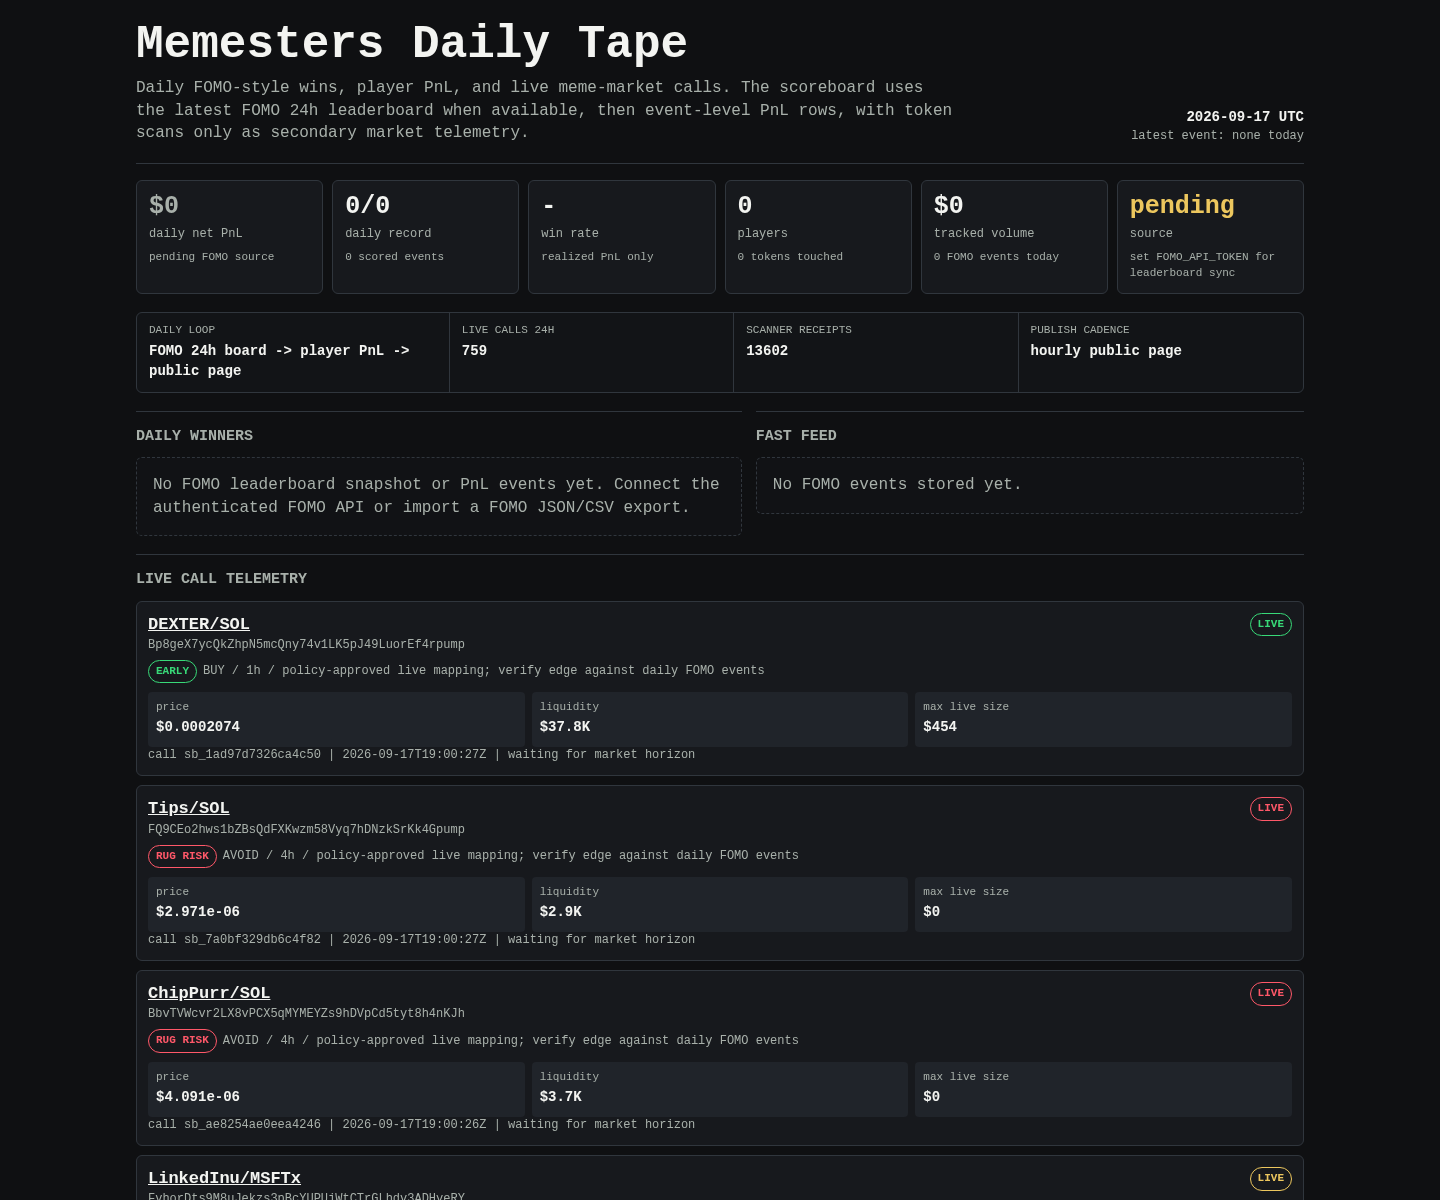
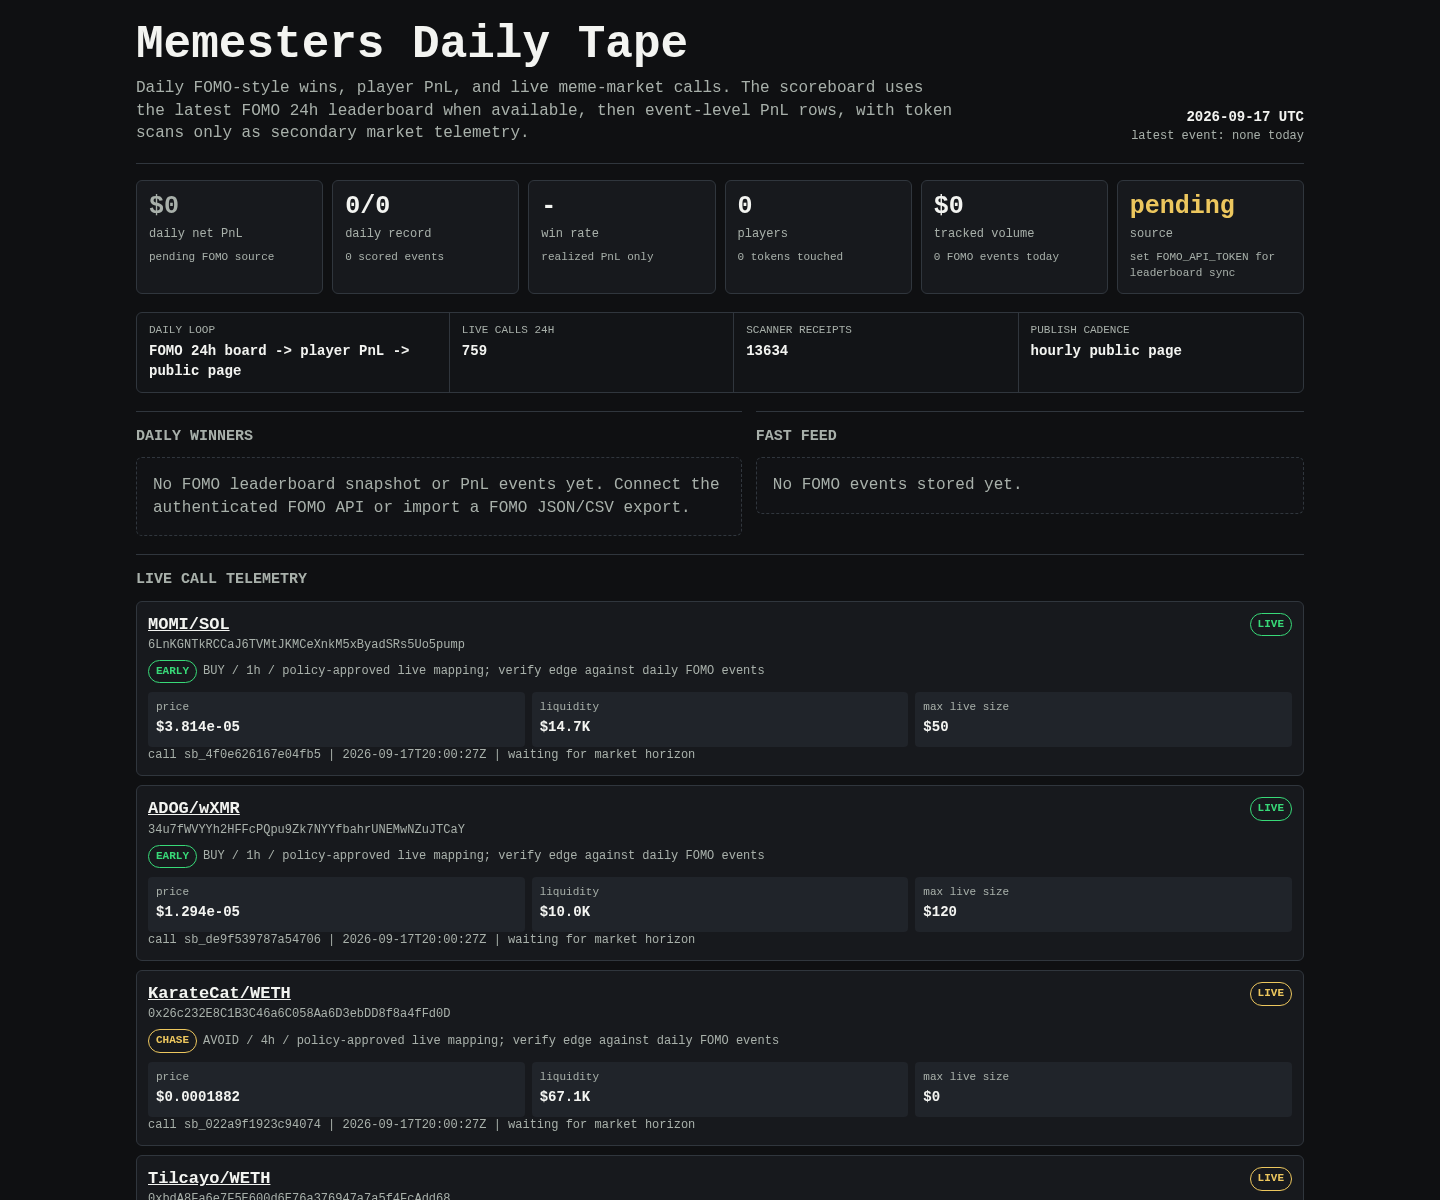
Update Memesters scoreboard

diff --git a/memesters/index.html b/memesters/index.html
@@ -150,7 +150,7 @@
     <div class="rail" aria-label="live operating loop">
       <div><span>daily loop</span><b>FOMO 24h board -> player PnL -> public page</b></div>
       <div><span>live calls 24h</span><b>759</b></div>
-      <div><span>scanner receipts</span><b>13602</b></div>
+      <div><span>scanner receipts</span><b>13634</b></div>
       <div><span>publish cadence</span><b>hourly public page</b></div>
     </div>
 
@@ -171,8 +171,8 @@
     <article class="receipt">
       <div class="receipt-head">
         <div>
-          <div class="pair"><a href="https://dexscreener.com/solana/4cq69tmxusd47zvrur3tec6zw2y4kvy1xrhoqcgdrdsk">DEXTER/SOL</a></div>
-          <div class="addr">Bp8geX7ycQkZhpN5mcQny74v1LK5pJ49LuorEf4rpump</div>
+          <div class="pair"><a href="https://dexscreener.com/solana/6st1pmqcyfyxwsqpue3ea3mwzo69kz4qac1qerblwaev">MOMI/SOL</a></div>
+          <div class="addr">6LnKGNTkRCCaJ6TVMtJKMCeXnkM5xByadSRs5Uo5pump</div>
           <div class="addr policy-line">
             <span class="badge early">EARLY</span>
             <span>BUY / 1h / policy-approved live mapping; verify edge against daily FOMO events</span>
@@ -181,61 +181,40 @@
         <span class="badge early">LIVE</span>
       </div>
       <div class="receipt-grid">
-        <div class="kv"><span>price</span><b>$0.0002074</b></div>
-        <div class="kv"><span>liquidity</span><b>$37.8K</b></div>
-        <div class="kv"><span>max live size</span><b>$454</b></div>
+        <div class="kv"><span>price</span><b>$3.814e-05</b></div>
+        <div class="kv"><span>liquidity</span><b>$14.7K</b></div>
+        <div class="kv"><span>max live size</span><b>$50</b></div>
       </div>
-      <div class="outcomes">call sb_1ad97d7326ca4c50 | 2026-09-17T19:00:27Z | waiting for market horizon</div>
+      <div class="outcomes">call sb_4f0e626167e04fb5 | 2026-09-17T20:00:27Z | waiting for market horizon</div>
     </article>
     
 
     <article class="receipt">
       <div class="receipt-head">
         <div>
-          <div class="pair"><a href="https://dexscreener.com/solana/hnqxz2f4n9bascnupu7vqe4tpzfrc6jwrx4pgddwashg">Tips/SOL</a></div>
-          <div class="addr">FQ9CEo2hws1bZBsQdFXKwzm58Vyq7hDNzkSrKk4Gpump</div>
+          <div class="pair"><a href="https://dexscreener.com/solana/dqpjpthe7bwycymtzmuczviusi5sxspb1fwfl6mjxx6t">ADOG/wXMR</a></div>
+          <div class="addr">34u7fWVYYh2HFFcPQpu9Zk7NYYfbahrUNEMwNZuJTCaY</div>
           <div class="addr policy-line">
-            <span class="badge rug-risk">RUG RISK</span>
-            <span>AVOID / 4h / policy-approved live mapping; verify edge against daily FOMO events</span>
+            <span class="badge early">EARLY</span>
+            <span>BUY / 1h / policy-approved live mapping; verify edge against daily FOMO events</span>
           </div>
         </div>
-        <span class="badge rug-risk">LIVE</span>
+        <span class="badge early">LIVE</span>
       </div>
       <div class="receipt-grid">
-        <div class="kv"><span>price</span><b>$2.971e-06</b></div>
-        <div class="kv"><span>liquidity</span><b>$2.9K</b></div>
-        <div class="kv"><span>max live size</span><b>$0</b></div>
+        <div class="kv"><span>price</span><b>$1.294e-05</b></div>
+        <div class="kv"><span>liquidity</span><b>$10.0K</b></div>
+        <div class="kv"><span>max live size</span><b>$120</b></div>
       </div>
-      <div class="outcomes">call sb_7a0bf329db6c4f82 | 2026-09-17T19:00:27Z | waiting for market horizon</div>
+      <div class="outcomes">call sb_de9f539787a54706 | 2026-09-17T20:00:27Z | waiting for market horizon</div>
     </article>
     
 
     <article class="receipt">
       <div class="receipt-head">
         <div>
-          <div class="pair"><a href="https://dexscreener.com/solana/camhwtgfejd8gqczpsx5z9jx36tur8wxilnhdkghbimu">ChipPurr/SOL</a></div>
-          <div class="addr">BbvTVWcvr2LX8vPCX5qMYMEYZs9hDVpCd5tyt8h4nKJh</div>
-          <div class="addr policy-line">
-            <span class="badge rug-risk">RUG RISK</span>
-            <span>AVOID / 4h / policy-approved live mapping; verify edge against daily FOMO events</span>
-          </div>
-        </div>
-        <span class="badge rug-risk">LIVE</span>
-      </div>
-      <div class="receipt-grid">
-        <div class="kv"><span>price</span><b>$4.091e-06</b></div>
-        <div class="kv"><span>liquidity</span><b>$3.7K</b></div>
-        <div class="kv"><span>max live size</span><b>$0</b></div>
-      </div>
-      <div class="outcomes">call sb_ae8254ae0eea4246 | 2026-09-17T19:00:26Z | waiting for market horizon</div>
-    </article>
-    
-
-    <article class="receipt">
-      <div class="receipt-head">
-        <div>
-          <div class="pair"><a href="https://dexscreener.com/solana/cmcekrdmplptijkpt57zyaba6f57ob65xdxpa3w7zmbf">LinkedInu/MSFTx</a></div>
-          <div class="addr">FvhorDts9M8uJekzs3pBcYUPUjWtCTrGLhdv3ADHyeRY</div>
+          <div class="pair"><a href="https://dexscreener.com/robinhood/0xdf6ab24ca384f8479acab8ac8c5db1912e40ce5a">KarateCat/WETH</a></div>
+          <div class="addr">0x26c232E8C1B3C46a6C058Aa6D3ebDD8f8a4fFd0D</div>
           <div class="addr policy-line">
             <span class="badge chase">CHASE</span>
             <span>AVOID / 4h / policy-approved live mapping; verify edge against daily FOMO events</span>
@@ -244,40 +223,19 @@
         <span class="badge chase">LIVE</span>
       </div>
       <div class="receipt-grid">
-        <div class="kv"><span>price</span><b>$0.0008967</b></div>
-        <div class="kv"><span>liquidity</span><b>$93.0K</b></div>
+        <div class="kv"><span>price</span><b>$0.0001882</b></div>
+        <div class="kv"><span>liquidity</span><b>$67.1K</b></div>
         <div class="kv"><span>max live size</span><b>$0</b></div>
       </div>
-      <div class="outcomes">call sb_71a5b2790d514a82 | 2026-09-17T19:00:26Z | waiting for market horizon</div>
+      <div class="outcomes">call sb_022a9f1923c94074 | 2026-09-17T20:00:27Z | waiting for market horizon</div>
     </article>
     
 
     <article class="receipt">
       <div class="receipt-head">
         <div>
-          <div class="pair"><a href="https://dexscreener.com/solana/2eeqokwxyunkidhprwtbcxtoi9lgwcu1177ohcbfxdux">DeFlock/SOL</a></div>
-          <div class="addr">EqNjNpgZkzm3p7zL1gXAVGboUX1kRcKZZJon1qxHpump</div>
-          <div class="addr policy-line">
-            <span class="badge early">EARLY</span>
-            <span>BUY / 1h / policy-approved live mapping; verify edge against daily FOMO events</span>
-          </div>
-        </div>
-        <span class="badge early">LIVE</span>
-      </div>
-      <div class="receipt-grid">
-        <div class="kv"><span>price</span><b>$2.802e-05</b></div>
-        <div class="kv"><span>liquidity</span><b>$12.5K</b></div>
-        <div class="kv"><span>max live size</span><b>$150</b></div>
-      </div>
-      <div class="outcomes">call sb_2cb26c60c3984790 | 2026-09-17T19:00:26Z | waiting for market horizon</div>
-    </article>
-    
-
-    <article class="receipt">
-      <div class="receipt-head">
-        <div>
-          <div class="pair"><a href="https://dexscreener.com/solana/4nbuvpxns3fofht8g1napnegcmtc1c4bdwdeybc3dqzy">DOG/SOL</a></div>
-          <div class="addr">DWZqne4tLESk3oijs5WDrLwdcoB26Gz5vTfL2nkWpaid</div>
+          <div class="pair"><a href="https://dexscreener.com/robinhood/0xf75ae1e0062fb51d35192fdd2c5a37f2498556c7">Tilcayo/WETH</a></div>
+          <div class="addr">0xbdA8Fa6e7F5E600d6E76a376947a7a5f4FcAdd68</div>
           <div class="addr policy-line">
             <span class="badge chase">CHASE</span>
             <span>AVOID / 4h / policy-approved live mapping; verify edge against daily FOMO events</span>
@@ -286,82 +244,19 @@
         <span class="badge chase">LIVE</span>
       </div>
       <div class="receipt-grid">
-        <div class="kv"><span>price</span><b>$0.0001461</b></div>
-        <div class="kv"><span>liquidity</span><b>$34.2K</b></div>
+        <div class="kv"><span>price</span><b>$0.0006445</b></div>
+        <div class="kv"><span>liquidity</span><b>$88.5K</b></div>
         <div class="kv"><span>max live size</span><b>$0</b></div>
       </div>
-      <div class="outcomes">call sb_1edefc9a906048c4 | 2026-09-17T19:00:26Z | waiting for market horizon</div>
+      <div class="outcomes">call sb_f66c4df4eafc423a | 2026-09-17T20:00:27Z | waiting for market horizon</div>
     </article>
     
 
     <article class="receipt">
       <div class="receipt-head">
         <div>
-          <div class="pair"><a href="https://dexscreener.com/solana/6dojtvxb3rdqqvtgauihq9upvgklgkrygbhqu9aygvw7">xp/xSOL</a></div>
-          <div class="addr">pgtgG6UCiyA49ShyETG2wpcMAvtLSvNp22UaJ1FWp3P</div>
-          <div class="addr policy-line">
-            <span class="badge chase">CHASE</span>
-            <span>AVOID / 4h / policy-approved live mapping; verify edge against daily FOMO events</span>
-          </div>
-        </div>
-        <span class="badge chase">LIVE</span>
-      </div>
-      <div class="receipt-grid">
-        <div class="kv"><span>price</span><b>$0.000812</b></div>
-        <div class="kv"><span>liquidity</span><b>$90.1K</b></div>
-        <div class="kv"><span>max live size</span><b>$0</b></div>
-      </div>
-      <div class="outcomes">call sb_b8f44abfe30a41bc | 2026-09-17T19:00:26Z | waiting for market horizon</div>
-    </article>
-    
-
-    <article class="receipt">
-      <div class="receipt-head">
-        <div>
-          <div class="pair"><a href="https://dexscreener.com/robinhood/0xbe23dd7085b9ea30fc235b9aa82a813c3ef56a89f8b5be72033b2c2e7508f18e">Tilcayo/USDG</a></div>
-          <div class="addr">0xd40a87496d02E55509aCd830466b0085b7E5Aee2</div>
-          <div class="addr policy-line">
-            <span class="badge early">EARLY</span>
-            <span>BUY / 1h / policy-approved live mapping; verify edge against daily FOMO events</span>
-          </div>
-        </div>
-        <span class="badge early">LIVE</span>
-      </div>
-      <div class="receipt-grid">
-        <div class="kv"><span>price</span><b>$7.429e-05</b></div>
-        <div class="kv"><span>liquidity</span><b>$22.2K</b></div>
-        <div class="kv"><span>max live size</span><b>$266</b></div>
-      </div>
-      <div class="outcomes">call sb_73218f788292478d | 2026-09-17T19:00:26Z | waiting for market horizon</div>
-    </article>
-    
-
-    <article class="receipt">
-      <div class="receipt-head">
-        <div>
-          <div class="pair"><a href="https://dexscreener.com/solana/83x1pyfkuh2qeakzeyeakw5nhjiskffvqvutgeqe2iad">PAIDCAT/SOL</a></div>
-          <div class="addr">9n8rBV1L917EUSVDa9KTX2uMxvPfKZxLLtwKnYs8pump</div>
-          <div class="addr policy-line">
-            <span class="badge early">EARLY</span>
-            <span>BUY / 1h / policy-approved live mapping; verify edge against daily FOMO events</span>
-          </div>
-        </div>
-        <span class="badge early">LIVE</span>
-      </div>
-      <div class="receipt-grid">
-        <div class="kv"><span>price</span><b>$0.0001443</b></div>
-        <div class="kv"><span>liquidity</span><b>$31.7K</b></div>
-        <div class="kv"><span>max live size</span><b>$380</b></div>
-      </div>
-      <div class="outcomes">call sb_8e5f1cf510bb473a | 2026-09-17T18:45:23Z | waiting for market horizon</div>
-    </article>
-    
-
-    <article class="receipt">
-      <div class="receipt-head">
-        <div>
-          <div class="pair"><a href="https://dexscreener.com/solana/qfyt3kxstge6dpi2v7hnrxf9k8tcsy9nbxdksjdwczb">RR/SOL</a></div>
-          <div class="addr">9tgL88ZmGSH7ah9bX9uBGyF5pb5eXddqSCG1YCj8pump</div>
+          <div class="pair"><a href="https://dexscreener.com/solana/4nkbikjvh6wvegnpvgg8mjkmtfu2v71zbbz44fwstplx">MCINU/MCDx</a></div>
+          <div class="addr">3JvPX6ci4MoXdvXtsPgr1wVzGFYTp3hbDLEHFw9UGphu</div>
           <div class="addr policy-line">
             <span class="badge rug-risk">RUG RISK</span>
             <span>AVOID / 4h / policy-approved live mapping; verify edge against daily FOMO events</span>
@@ -370,11 +265,116 @@
         <span class="badge rug-risk">LIVE</span>
       </div>
       <div class="receipt-grid">
-        <div class="kv"><span>price</span><b>$2.802e-06</b></div>
-        <div class="kv"><span>liquidity</span><b>$2.7K</b></div>
+        <div class="kv"><span>price</span><b>$1.417e-05</b></div>
+        <div class="kv"><span>liquidity</span><b>$10.4K</b></div>
         <div class="kv"><span>max live size</span><b>$0</b></div>
       </div>
-      <div class="outcomes">call sb_7aab1a6e97f64e7c | 2026-09-17T18:45:23Z | waiting for market horizon</div>
+      <div class="outcomes">call sb_fafd18d20bc64aff | 2026-09-17T20:00:27Z | waiting for market horizon</div>
+    </article>
+    
+
+    <article class="receipt">
+      <div class="receipt-head">
+        <div>
+          <div class="pair"><a href="https://dexscreener.com/robinhood/0x1431875bbcff960475f3912edccdc7e2e306c08b98abb1454d171f05d7ec1109">TMEW/WETH</a></div>
+          <div class="addr">0xE00D76088f9e41BC5A0efFb31e951B9C988dB3cB</div>
+          <div class="addr policy-line">
+            <span class="badge chase">CHASE</span>
+            <span>AVOID / 4h / policy-approved live mapping; verify edge against daily FOMO events</span>
+          </div>
+        </div>
+        <span class="badge chase">LIVE</span>
+      </div>
+      <div class="receipt-grid">
+        <div class="kv"><span>price</span><b>$0.0001297</b></div>
+        <div class="kv"><span>liquidity</span><b>$97.0K</b></div>
+        <div class="kv"><span>max live size</span><b>$0</b></div>
+      </div>
+      <div class="outcomes">call sb_3688eb56aa06463d | 2026-09-17T20:00:26Z | waiting for market horizon</div>
+    </article>
+    
+
+    <article class="receipt">
+      <div class="receipt-head">
+        <div>
+          <div class="pair"><a href="https://dexscreener.com/robinhood/0x2a4e49b6f4026be2d9c4cc273f389d986256e27b18950a8967d1daa095b27978">AD/ETH</a></div>
+          <div class="addr">0x63FFd4aA844f4BEFCee1B4606E467D1D209A926B</div>
+          <div class="addr policy-line">
+            <span class="badge chase">CHASE</span>
+            <span>AVOID / 4h / policy-approved live mapping; verify edge against daily FOMO events</span>
+          </div>
+        </div>
+        <span class="badge chase">LIVE</span>
+      </div>
+      <div class="receipt-grid">
+        <div class="kv"><span>price</span><b>$0.0001796</b></div>
+        <div class="kv"><span>liquidity</span><b>$32.4K</b></div>
+        <div class="kv"><span>max live size</span><b>$0</b></div>
+      </div>
+      <div class="outcomes">call sb_f49334cce49d4e02 | 2026-09-17T20:00:26Z | waiting for market horizon</div>
+    </article>
+    
+
+    <article class="receipt">
+      <div class="receipt-head">
+        <div>
+          <div class="pair"><a href="https://dexscreener.com/arc/0x11b73810472525a13c90bee4f1a6edcb039aee78">ARCADE/USDC</a></div>
+          <div class="addr">0xcaaD9713114A3c26131594E7e3a908f41e7d4549</div>
+          <div class="addr policy-line">
+            <span class="badge chase">CHASE</span>
+            <span>AVOID / 4h / policy-approved live mapping; verify edge against daily FOMO events</span>
+          </div>
+        </div>
+        <span class="badge chase">LIVE</span>
+      </div>
+      <div class="receipt-grid">
+        <div class="kv"><span>price</span><b>$0.0001324</b></div>
+        <div class="kv"><span>liquidity</span><b>$102.0K</b></div>
+        <div class="kv"><span>max live size</span><b>$0</b></div>
+      </div>
+      <div class="outcomes">call sb_433ef5f78cfc4f7c | 2026-09-17T19:45:26Z | waiting for market horizon</div>
+    </article>
+    
+
+    <article class="receipt">
+      <div class="receipt-head">
+        <div>
+          <div class="pair"><a href="https://dexscreener.com/robinhood/0xac75ff66b791e817fee9d37f408478c44314c90a">BINGUS/WETH</a></div>
+          <div class="addr">0xf63B8deBe4f9cAC38441A03C307F7E5986ede856</div>
+          <div class="addr policy-line">
+            <span class="badge chase">CHASE</span>
+            <span>AVOID / 4h / policy-approved live mapping; verify edge against daily FOMO events</span>
+          </div>
+        </div>
+        <span class="badge chase">LIVE</span>
+      </div>
+      <div class="receipt-grid">
+        <div class="kv"><span>price</span><b>$0.0002933</b></div>
+        <div class="kv"><span>liquidity</span><b>$102.7K</b></div>
+        <div class="kv"><span>max live size</span><b>$0</b></div>
+      </div>
+      <div class="outcomes">call sb_619b5884f3484679 | 2026-09-17T19:45:26Z | waiting for market horizon</div>
+    </article>
+    
+
+    <article class="receipt">
+      <div class="receipt-head">
+        <div>
+          <div class="pair"><a href="https://dexscreener.com/arc/0x33cf97509671d5896cdfa12457044aee8a5f8d7c4a550517406b0d75418bb125">MALACAT/USDC</a></div>
+          <div class="addr">0x3e8442924b75518D315CF00d7f7E720EC4F67b18</div>
+          <div class="addr policy-line">
+            <span class="badge chase">CHASE</span>
+            <span>AVOID / 4h / policy-approved live mapping; verify edge against daily FOMO events</span>
+          </div>
+        </div>
+        <span class="badge chase">LIVE</span>
+      </div>
+      <div class="receipt-grid">
+        <div class="kv"><span>price</span><b>$0.0001066</b></div>
+        <div class="kv"><span>liquidity</span><b>$30.1K</b></div>
+        <div class="kv"><span>max live size</span><b>$0</b></div>
+      </div>
+      <div class="outcomes">call sb_c9037a1b5efd4bc2 | 2026-09-17T19:45:26Z | waiting for market horizon</div>
     </article>
     
     </section>
